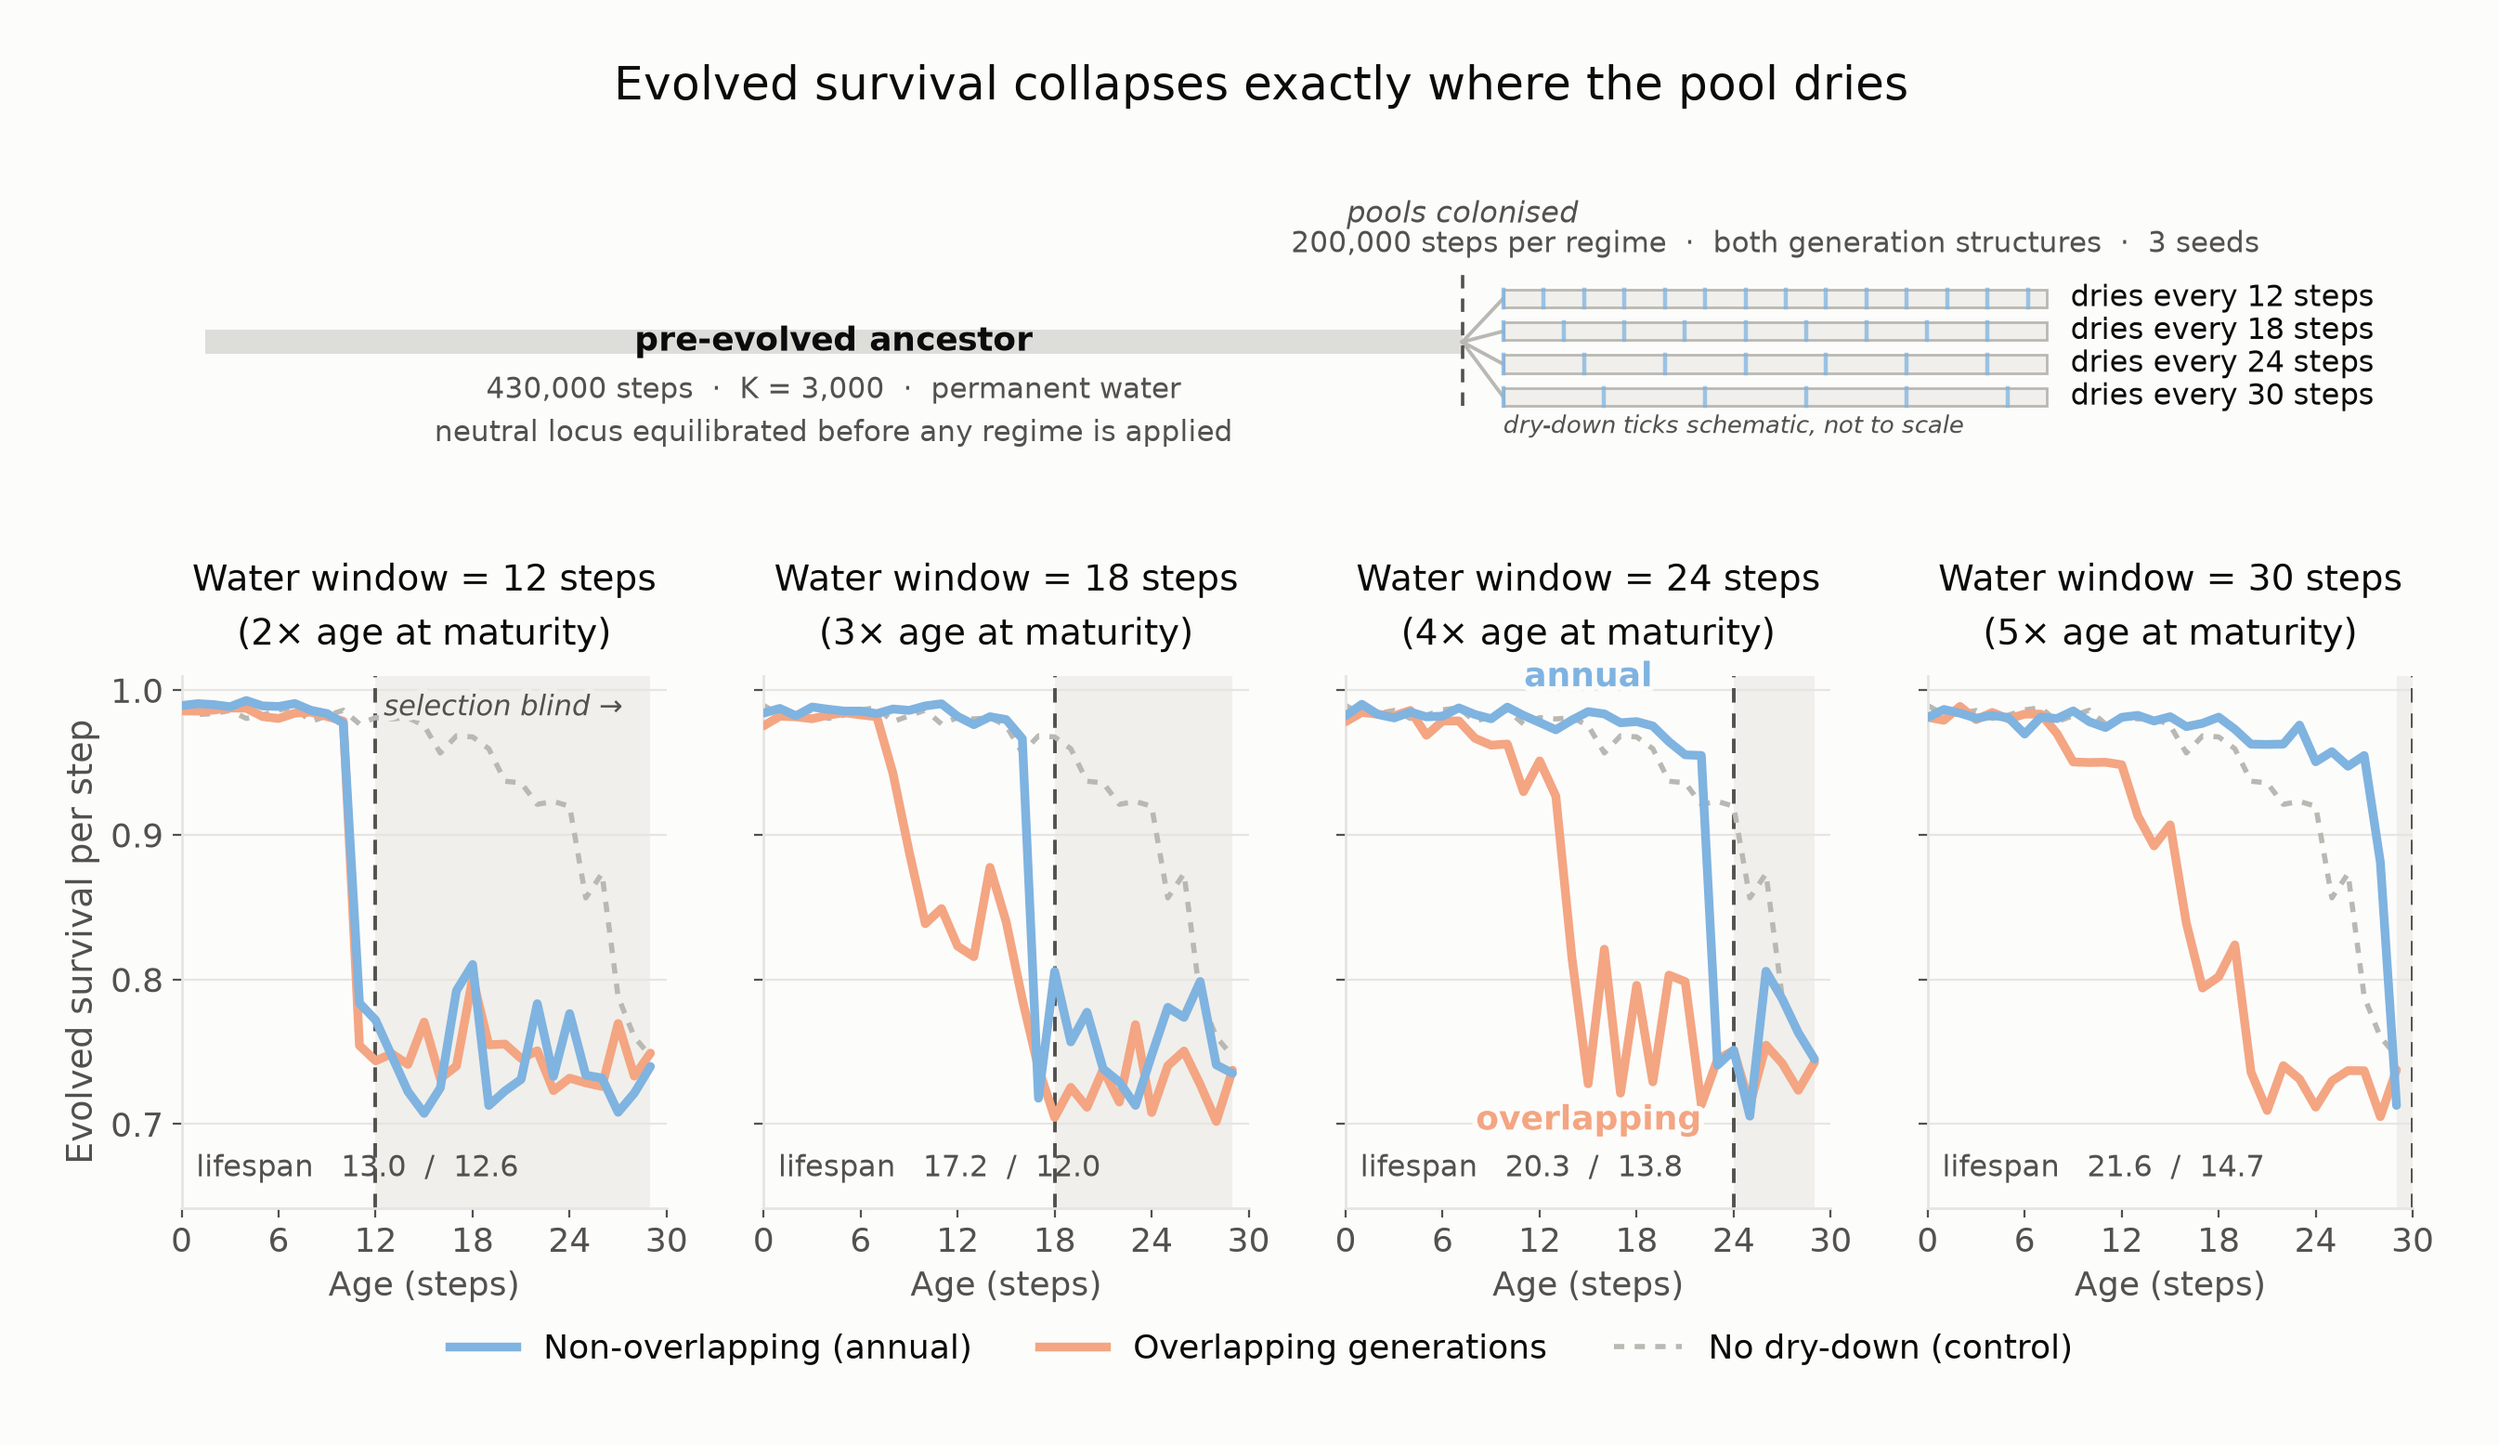
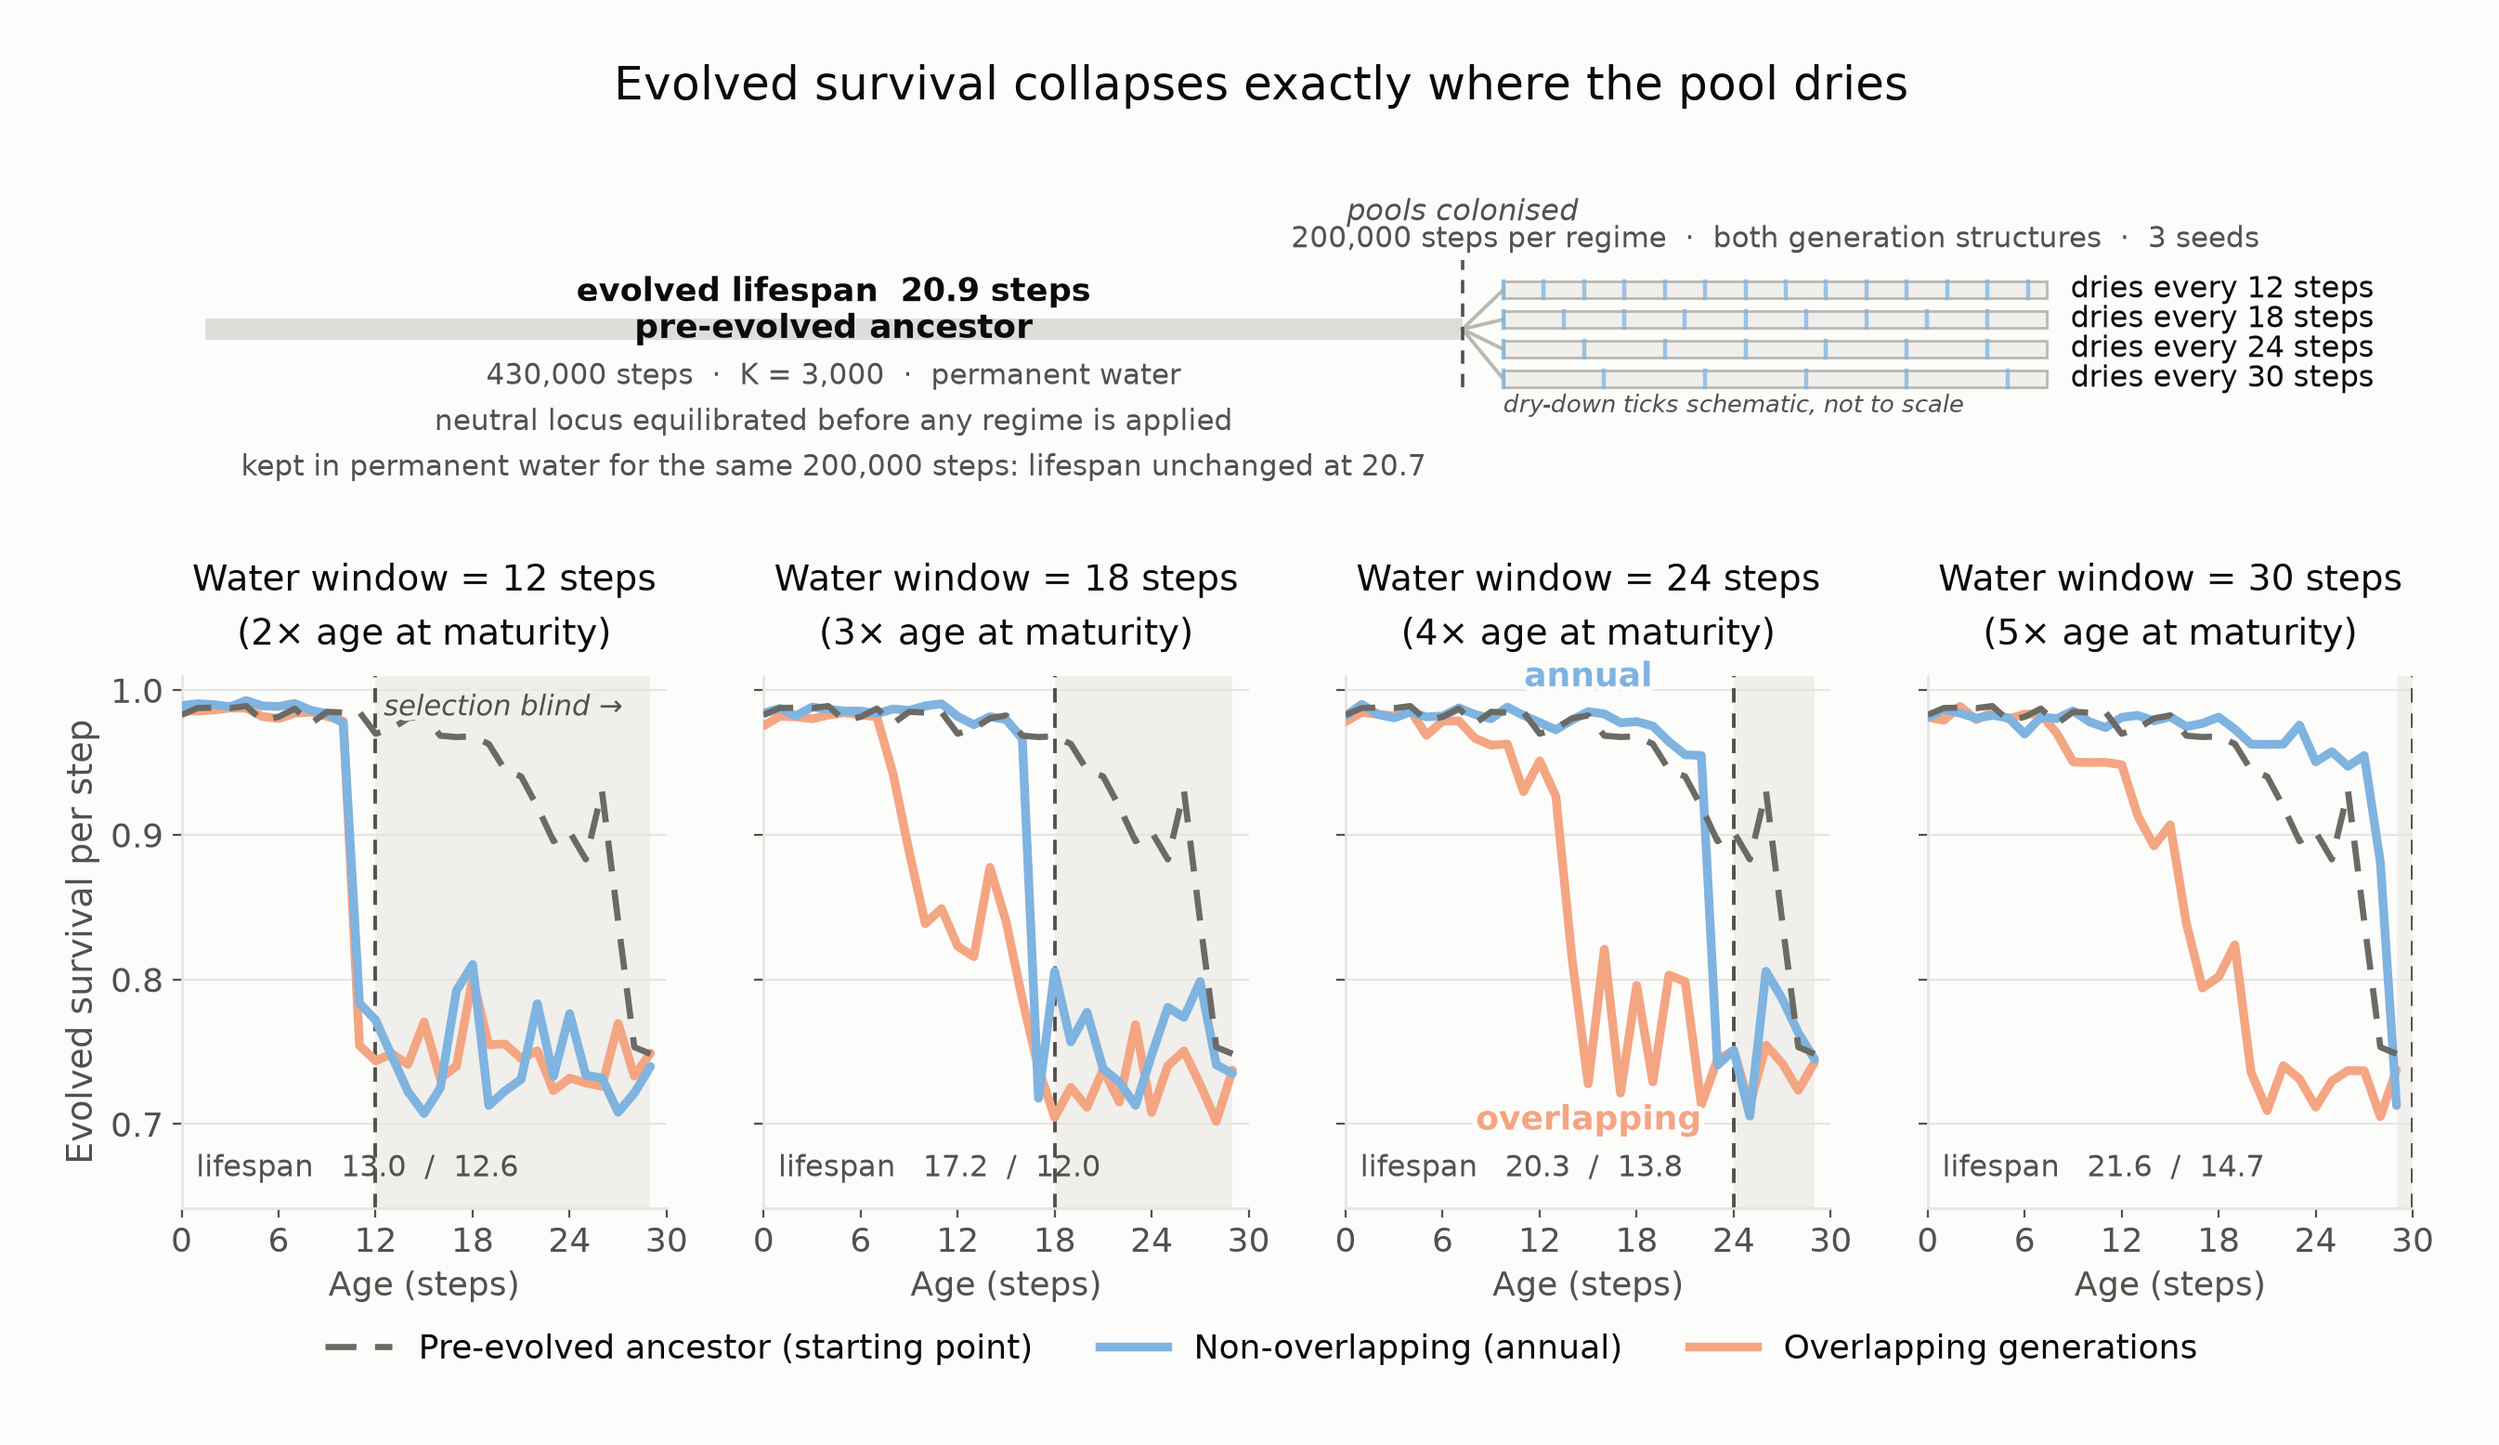
Figure: plot the ancestor curve as the reference; fold the control into a caption number

diff --git a/experiments/ne_lifespan/plot_killifish.py b/experiments/ne_lifespan/plot_killifish.py
@@ -41,6 +41,11 @@ BLUE, CORAL = "#7fb3e0", "#f4a582"
 INK, INK_SOFT, GRID = "#0b0b0b", "#52514e", "#e6e5e1"
 SURFACE, SHADE = "#fcfcfb", "#f0efeb"
 REF = "#b9b8b2"
+# The ancestor is the reference every panel is read against, so it is drawn darker
+# than a background element. The no-dry-down control is NOT drawn: it sits within
+# 0.06 of the ancestor at every age (e0 20.7 vs 20.9), so a second grey line would
+# be redundant -- its value is reported as a number instead.
+ANC = "#6b6a65"
 
 
 def px_of(run_dir):
@@ -67,7 +72,7 @@ def mean_curve(base, arm_fmt, seeds):
     return m, e0
 
 
-def draw_schematic(ax, anc_e0=None):
+def draw_schematic(ax, anc_e0=None, ctrl_e0=None):
     """Horizontal timeline: one pre-evolved ancestor, then allocation to water regimes.
 
     The design's whole claim rests on a SHARED ancestor -- every regime starts from the
@@ -86,9 +91,13 @@ def draw_schematic(ax, anc_e0=None):
                                edgecolor="none", zorder=2))
     ax.text(BURN_END / 2, 1.5, "pre-evolved ancestor", ha="center", va="center",
             fontsize=13, fontweight="bold", color=INK, zorder=3)
-    ax.text(BURN_END / 2, 0.72, "430,000 steps  ·  K = 3,000  ·  permanent water\n"
-            "neutral locus equilibrated before any regime is applied",
-            ha="center", va="top", fontsize=11, color=INK_SOFT, linespacing=1.5, zorder=3)
+    cap = ("430,000 steps  ·  K = 3,000  ·  permanent water\n"
+           "neutral locus equilibrated before any regime is applied")
+    if ctrl_e0 is not None:
+        cap += (f"\nkept in permanent water for the same 200,000 steps: "
+                f"lifespan unchanged at {ctrl_e0:.1f}")
+    ax.text(BURN_END / 2, 0.72, cap, ha="center", va="top", fontsize=11,
+            color=INK_SOFT, linespacing=1.6, zorder=3)
     # The starting point every regime splits from -- state it, or the panels' lifespans
     # have nothing to be read against.
     if anc_e0 is not None:
@@ -120,8 +129,9 @@ def draw_schematic(ax, anc_e0=None):
     ax.text(BURN_END + 14, -0.95, "dry-down ticks schematic, not to scale",
             fontsize=9.5, color=INK_SOFT, style="italic", va="center", ha="left")
 
+
     ax.set_xlim(-8, TOTAL + 125)
-    ax.set_ylim(-1.3, 5.4)
+    ax.set_ylim(-2.0, 5.4)
     ax.axis("off")
 
 
@@ -168,7 +178,7 @@ def main():
     fig = plt.figure(figsize=(15.5, 7.0), dpi=200)
     gs = fig.add_gridspec(2, len(WINDOWS), height_ratios=[1.0, 2.3], hspace=0.62)
     sch = fig.add_subplot(gs[0, :])
-    draw_schematic(sch, anc_e0)
+    draw_schematic(sch, anc_e0, ctrl_e0)
     axes = [fig.add_subplot(gs[1, j]) for j in range(len(WINDOWS))]
     for j, ax in enumerate(axes):
         if j:
@@ -180,7 +190,8 @@ def main():
         ax.axvspan(W, ages[-1], facecolor=SHADE, edgecolor="none", zorder=0)
         ax.axvline(W, color=INK_SOFT, lw=1.4, ls=(0, (4, 3)), zorder=1)
 
-        ax.plot(ages, ctrl, color=REF, lw=2.0, ls=(0, (2, 2)), zorder=2)
+        ref = anc if anc is not None else ctrl
+        ax.plot(ages, ref, color=ANC, lw=2.4, ls=(0, (5, 3)), zorder=5)
 
         ann, ann_e0 = curves[(W, "annual")]
         ovl, ovl_e0 = curves[(W, "overlap")]
@@ -224,15 +235,13 @@ def main():
         # Headline numbers, in ink rather than series colour, parked top-left where no
         # curve runs (survival is flat and high there in every panel).
         if ann_e0 and ovl_e0:
-            txt = f"lifespan   {ann_e0:.1f}  /  {ovl_e0:.1f}"
-            if anc_e0 is not None:
-                txt += f"        ancestor {anc_e0:.1f}"
-            ax.text(0.03, 0.06, txt, transform=ax.transAxes, ha="left",
-                    fontsize=11.5, color=INK_SOFT)
+            ax.text(0.03, 0.06, f"lifespan   {ann_e0:.1f}  /  {ovl_e0:.1f}",
+                    transform=ax.transAxes, ha="left", fontsize=11.5, color=INK_SOFT)
 
-    handles = [plt.Line2D([], [], color=BLUE, lw=3.4, label="Non-overlapping (annual)"),
-               plt.Line2D([], [], color=CORAL, lw=3.4, label="Overlapping generations"),
-               plt.Line2D([], [], color=REF, lw=2.0, ls=(0, (2, 2)), label="No dry-down (control)")]
+    handles = [plt.Line2D([], [], color=ANC, lw=2.4, ls=(0, (5, 3)),
+                          label="Pre-evolved ancestor (starting point)"),
+               plt.Line2D([], [], color=BLUE, lw=3.4, label="Non-overlapping (annual)"),
+               plt.Line2D([], [], color=CORAL, lw=3.4, label="Overlapping generations")]
     fig.legend(handles=handles, loc="lower center", bbox_to_anchor=(0.5, -0.035),
                ncol=3, frameon=False, fontsize=13)
     fig.suptitle("Evolved survival collapses exactly where the pool dries",
